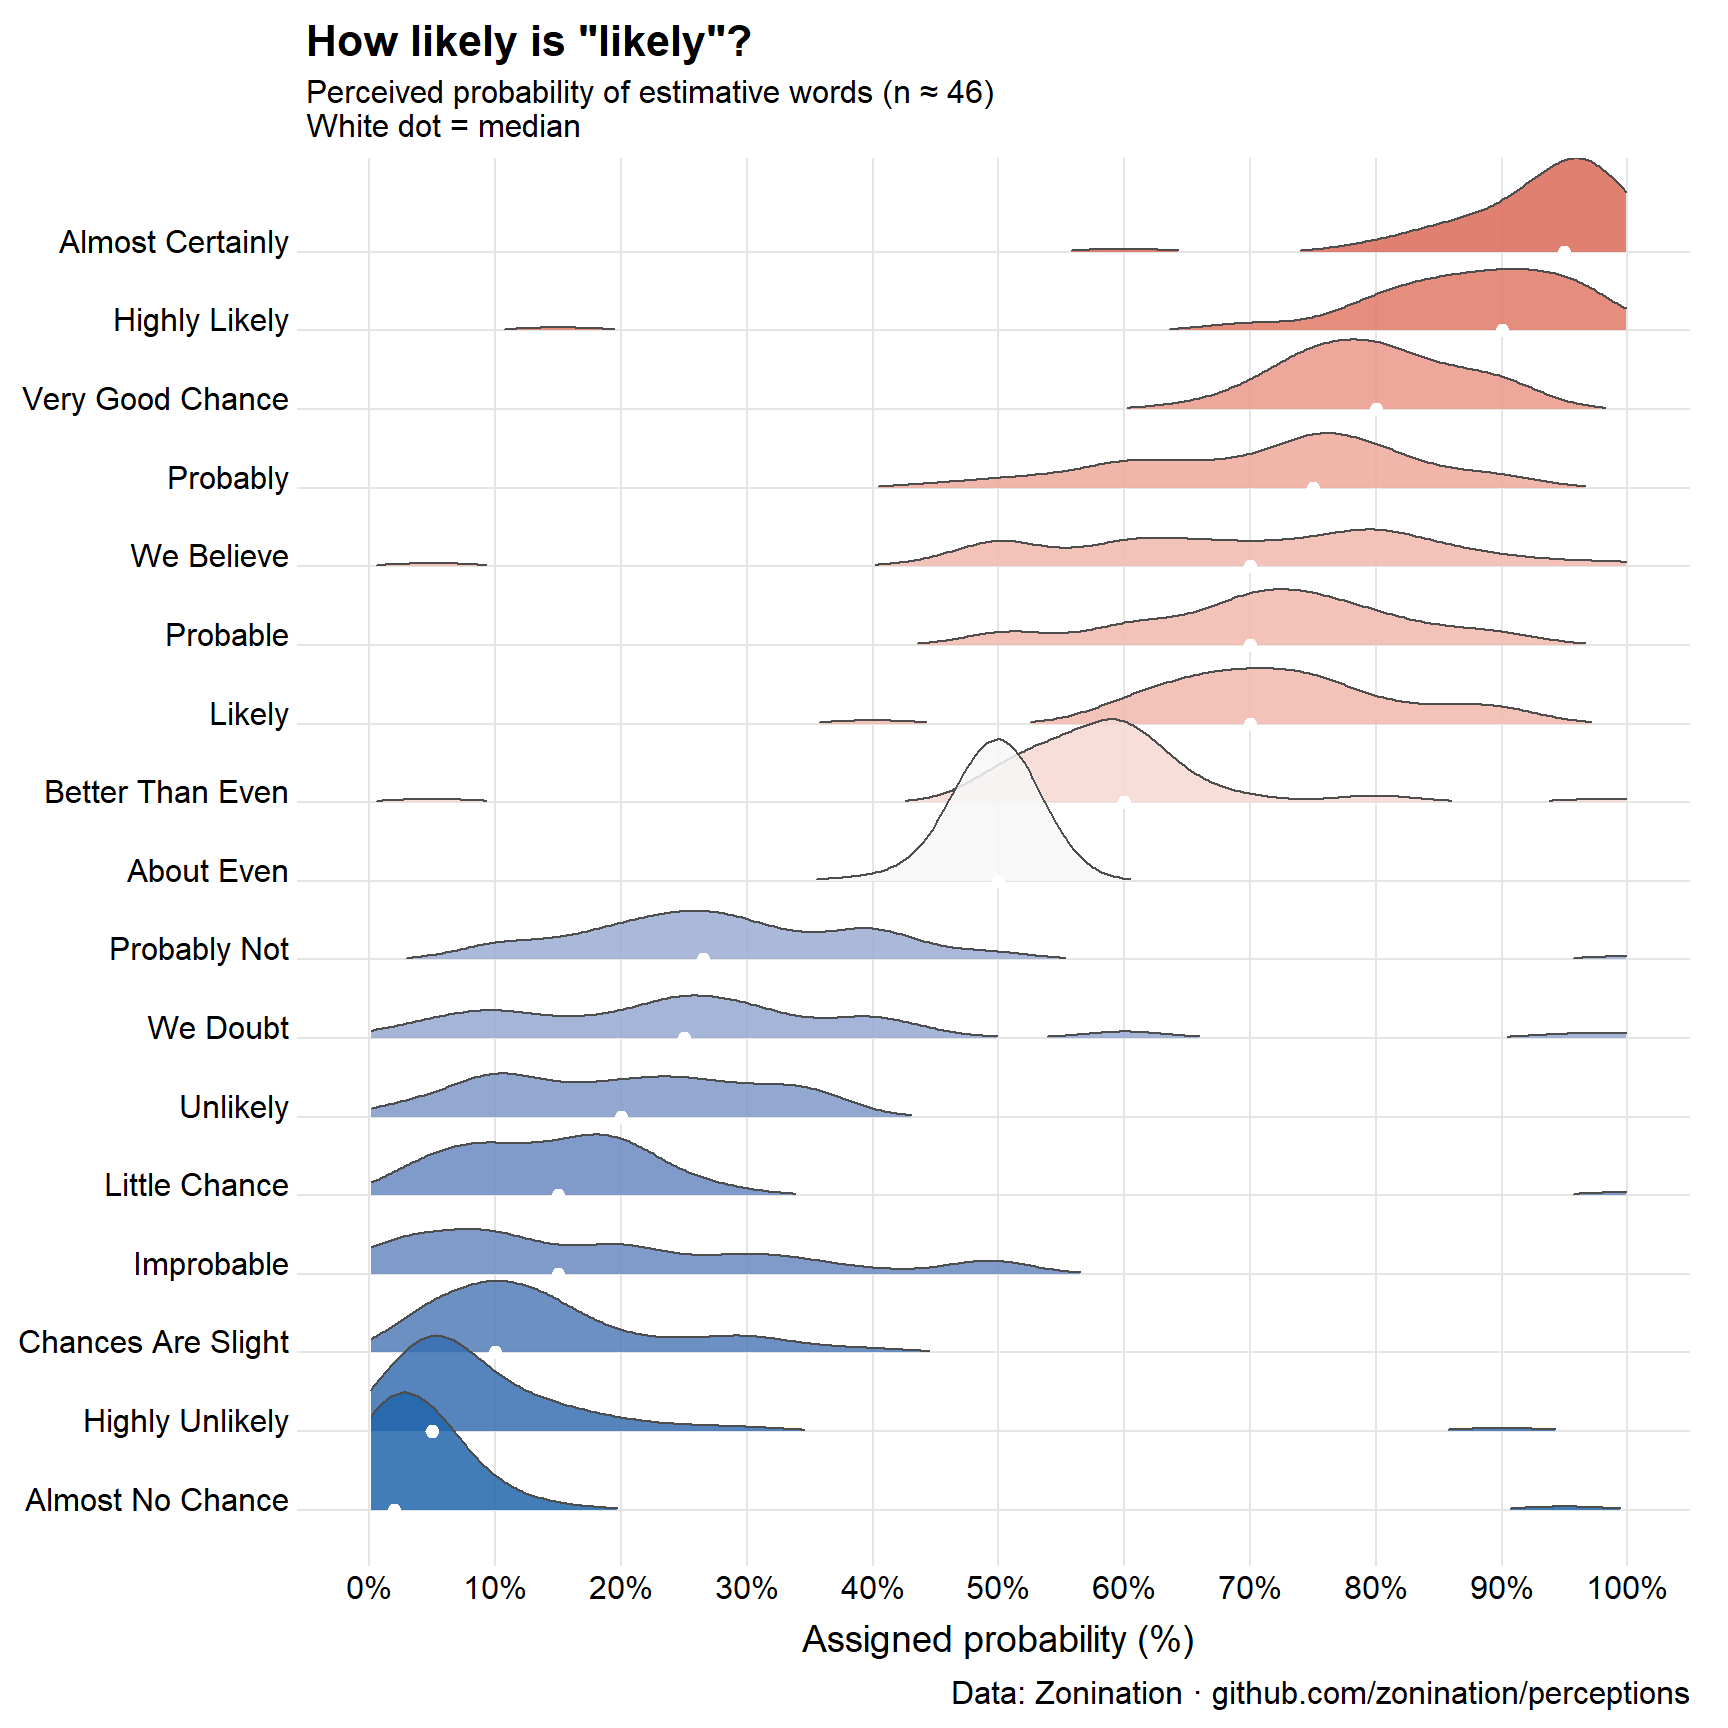
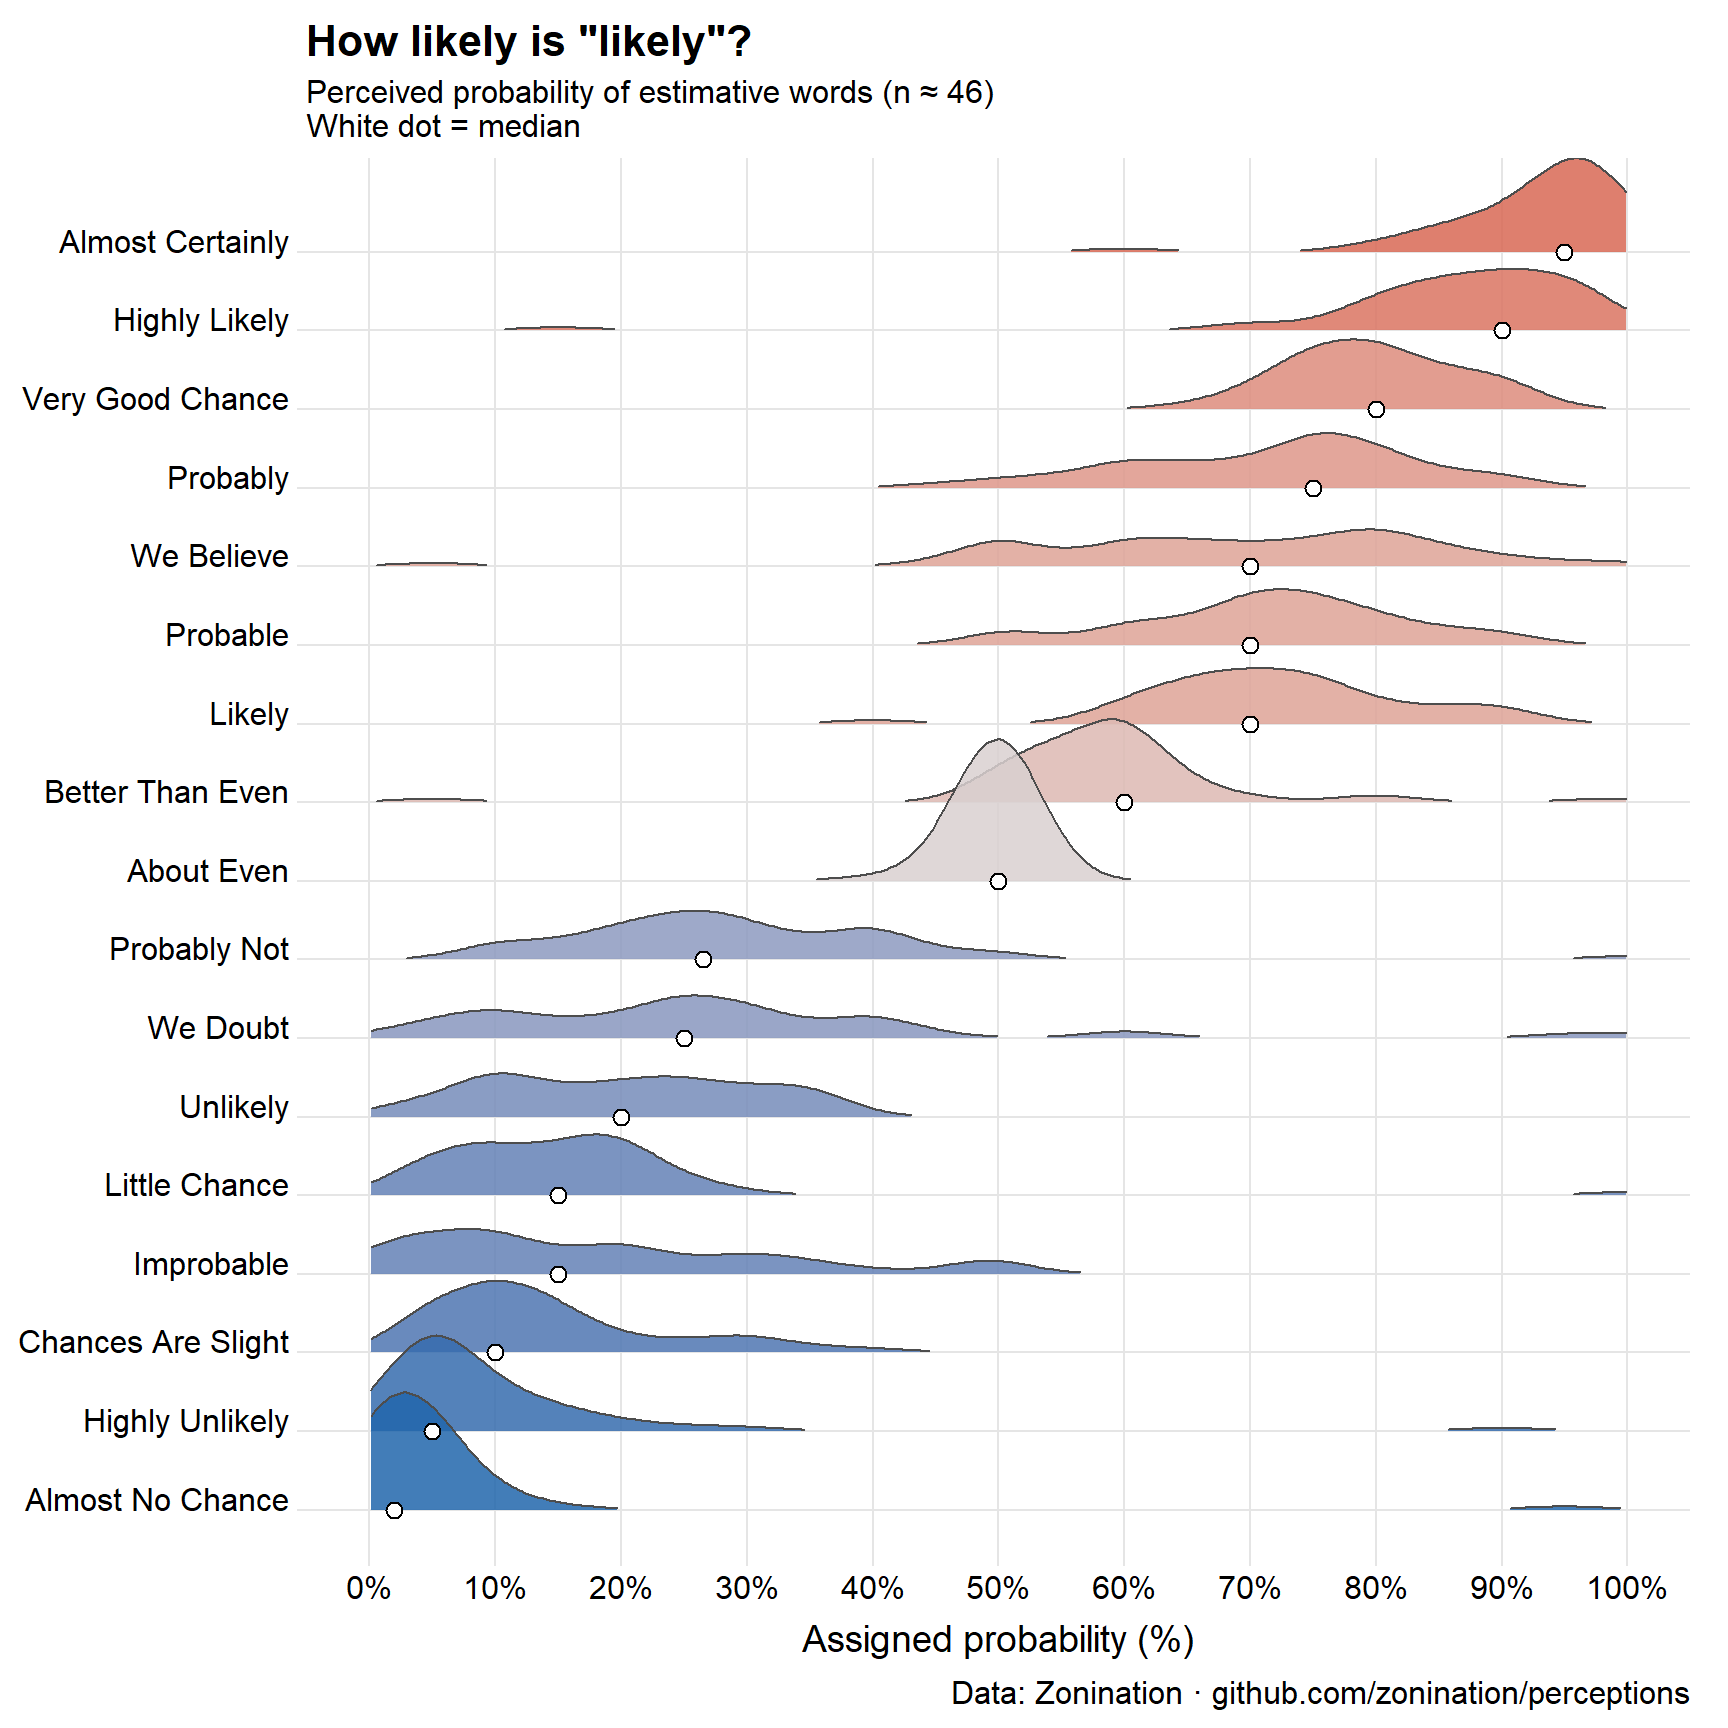
tweak probwords fig

Changed region(s): [[0.5, 0.4062, 0.7188, 0.5312]]

diff --git a/blog/drafts/BeachScience/BS-HowWarm.html b/blog/drafts/BeachScience/BS-HowWarm.html
@@ -158,9 +158,9 @@ background-size: cover;
 
 
 <!-- Image from: "C:\R\Projects\friendly.github.io\blog\drafts\BeachScience\images\thermometer-readouts.webp" -->
-<p>Standing at the water’s edge this morning, I described the Mediterranean air to my companion as “brisk”. She called it “refreshing”. A man walking past, apparently from somewhere much colder, called it “mild”. We were all describing the same air at the same moment.</p>
-<p>We all go for a plunge in the clear blue waters. Comparing our impressions, I call it “chilly”; my companion says, “cool, and refreshing”; the stranger calls it “temperate”.</p>
-<p>This is not a failure of communication. It is a BS research question.</p>
+<p>Standing at the water’s edge this morning, I described the Mediterranean air to my companion as “brisk”. She called it “refreshing”. A man walking past, perhaps from somewhere much colder, called it “mild”. We were all describing the same air at the same moment.</p>
+<p>We all go for a plunge in the clear blue waters. Comparing our impressions, I call it “chilly”; my companion says, “cool, and refreshing”; the stranger calls it “temperate”. Again: same water but different words to describe what we feel.</p>
+<p>This is not a failure of communication, or something you can just dismiss as “individual differences.” It is a BS research question.</p>
 <section id="the-meterologists-view" class="level2">
 <h2 class="anchored" data-anchor-id="the-meterologists-view">The Meterologist’s View</h2>
 <p>A meteorologist, coming from physical science, explains <a href="https://www.popsci.com/environment/what-is-feels-like-temperature/">What is ‘feels-like’ temperature?</a> in terms of <a href="https://en.wikipedia.org/wiki/Wind_chill">wind-chill</a>. This idea even gets a measure, the <strong>wind-chill factor</strong> (or “feels like” temperature). It is defined in words as:</p>
@@ -168,12 +168,12 @@ background-size: cover;
 <p>the apparent temperature felt on exposed skin caused by the combination of air temperature and wind speed. Wind strips away your body’s natural insulating layer of warm air, making the temperature feel significantly colder than the thermometer reads.</p>
 </blockquote>
 <p><img src="images/windchill3.png" class="img-fluid" style="float:right; margin-left:1.5em; margin-bottom:1em; width:45%"></p>
-<p>But that’s quite a physical mouthful. There are formulas for this, but you can understand the physics more easily from a <a href="https://en.wikipedia.org/wiki/Heat_map"><strong>heatmap</strong></a> visualization that simply uses background color for the “feels-like” value. Rick Wiklin, a long time friend, explains how to create <a href="https://blogs.sas.com/content/iml/2021/02/24/wind-chill-chart.html">The wind chill chart</a>, giving the figure at the right.</p>
+<p>But that’s quite a physical mouthful. There are formulas for this, but you can understand the physics more easily from a <a href="https://en.wikipedia.org/wiki/Heat_map"><strong>heatmap</strong></a> visualization that simply uses background color for the “feels-like” value. Rick Wiklin, a long time friend, explains how to create <a href="https://blogs.sas.com/content/iml/2021/02/24/wind-chill-chart.html">The wind chill chart</a> using SAS, giving the figure at the right.</p>
 <hr>
 </section>
 <section id="what-about-the-words" class="level2">
 <h2 class="anchored" data-anchor-id="what-about-the-words">What About the Words?</h2>
-<p>But even if you understand the physics, how can you understand the <strong>words</strong> you use to describe your feeling of warmth when you are sitting on the beach, or decide to go for a swim?</p>
+<p>But even if you understand the physics, how can you understand the <strong>words</strong> you use to describe your feeling of warmth when you are sitting on the beach, or decide to go for a swim? Perception goes beyond the physics. And there is also something interesting about the way we use discrete, qualitative words to describe what is a quantitative phenomenon.</p>
 </section>
 <section id="the-probability-analogy" class="level2">
 <h2 class="anchored" data-anchor-id="the-probability-analogy">The Probability Analogy</h2>
@@ -189,19 +189,20 @@ background-size: cover;
 <span id="cb1-3"><a href="#cb1-3" aria-hidden="true" tabindex="-1"></a>                      <span class="at">colour =</span> <span class="st">"grey30"</span>, <span class="at">linewidth =</span> <span class="fl">0.4</span>, <span class="at">alpha =</span> <span class="fl">0.85</span>) <span class="sc">+</span></span>
 <span id="cb1-4"><a href="#cb1-4" aria-hidden="true" tabindex="-1"></a>  <span class="fu">geom_point</span>(<span class="at">data =</span> term_summary,</span>
 <span id="cb1-5"><a href="#cb1-5" aria-hidden="true" tabindex="-1"></a>             <span class="fu">aes</span>(<span class="at">x =</span> med, <span class="at">y =</span> term),</span>
-<span id="cb1-6"><a href="#cb1-6" aria-hidden="true" tabindex="-1"></a>             <span class="at">colour =</span> <span class="st">"white"</span>, <span class="at">size =</span> <span class="fl">1.8</span>, <span class="at">inherit.aes =</span> <span class="cn">FALSE</span>) <span class="sc">+</span></span>
-<span id="cb1-7"><a href="#cb1-7" aria-hidden="true" tabindex="-1"></a>  <span class="fu">scale_fill_gradient2</span>(<span class="at">low =</span> <span class="st">"#2166ac"</span>, <span class="at">mid =</span> <span class="st">"#f7f7f7"</span>, <span class="at">high =</span> <span class="st">"#d6604d"</span>,</span>
-<span id="cb1-8"><a href="#cb1-8" aria-hidden="true" tabindex="-1"></a>                       <span class="at">midpoint =</span> <span class="dv">50</span>, <span class="at">name =</span> <span class="st">"Median</span><span class="sc">\n</span><span class="st">(%)"</span>) <span class="sc">+</span></span>
-<span id="cb1-9"><a href="#cb1-9" aria-hidden="true" tabindex="-1"></a>  <span class="fu">scale_x_continuous</span>(<span class="at">breaks =</span> <span class="fu">seq</span>(<span class="dv">0</span>, <span class="dv">100</span>, <span class="dv">10</span>),</span>
-<span id="cb1-10"><a href="#cb1-10" aria-hidden="true" tabindex="-1"></a>                     <span class="at">labels =</span> <span class="cf">function</span>(x) <span class="fu">paste0</span>(x, <span class="st">"%"</span>),</span>
-<span id="cb1-11"><a href="#cb1-11" aria-hidden="true" tabindex="-1"></a>                     <span class="at">limits =</span> <span class="fu">c</span>(<span class="dv">0</span>, <span class="dv">100</span>)) <span class="sc">+</span></span>
-<span id="cb1-12"><a href="#cb1-12" aria-hidden="true" tabindex="-1"></a>  <span class="fu">labs</span>(<span class="at">title =</span> <span class="st">'How likely is "likely"?'</span>,</span>
-<span id="cb1-13"><a href="#cb1-13" aria-hidden="true" tabindex="-1"></a>       <span class="at">subtitle =</span> <span class="st">"Perceived probability of estimative words (n ≈ 46)</span><span class="sc">\n</span><span class="st">White dot = median"</span>,</span>
-<span id="cb1-14"><a href="#cb1-14" aria-hidden="true" tabindex="-1"></a>       <span class="at">x =</span> <span class="st">"Assigned probability (%)"</span>, <span class="at">y =</span> <span class="cn">NULL</span>,</span>
-<span id="cb1-15"><a href="#cb1-15" aria-hidden="true" tabindex="-1"></a>       <span class="at">caption =</span> <span class="st">"Data: Zonination · github.com/zonination/perceptions"</span>) <span class="sc">+</span></span>
-<span id="cb1-16"><a href="#cb1-16" aria-hidden="true" tabindex="-1"></a>  <span class="fu">theme_ridges</span>(<span class="at">grid =</span> <span class="cn">TRUE</span>, <span class="at">center_axis_labels =</span> <span class="cn">TRUE</span>) <span class="sc">+</span></span>
-<span id="cb1-17"><a href="#cb1-17" aria-hidden="true" tabindex="-1"></a>  <span class="fu">theme</span>(<span class="at">plot.title =</span> <span class="fu">element_text</span>(<span class="at">face =</span> <span class="st">"bold"</span>, <span class="at">size =</span> <span class="dv">16</span>),</span>
-<span id="cb1-18"><a href="#cb1-18" aria-hidden="true" tabindex="-1"></a>        <span class="at">legend.position =</span> <span class="st">"none"</span>)</span></code></pre></div><button title="Copy to Clipboard" class="code-copy-button"><i class="bi"></i></button></div>
+<span id="cb1-6"><a href="#cb1-6" aria-hidden="true" tabindex="-1"></a>             <span class="at">shape =</span> <span class="dv">21</span>, <span class="at">colour =</span> <span class="st">"black"</span>, <span class="at">fill =</span> <span class="st">"white"</span>,</span>
+<span id="cb1-7"><a href="#cb1-7" aria-hidden="true" tabindex="-1"></a>             <span class="at">size =</span> <span class="fl">2.6</span>, <span class="at">stroke =</span> <span class="fl">0.6</span>, <span class="at">inherit.aes =</span> <span class="cn">FALSE</span>) <span class="sc">+</span></span>
+<span id="cb1-8"><a href="#cb1-8" aria-hidden="true" tabindex="-1"></a>  <span class="fu">scale_fill_gradient2</span>(<span class="at">low =</span> <span class="st">"#2166ac"</span>, <span class="at">mid =</span> <span class="st">"#d9d0d0"</span>, <span class="at">high =</span> <span class="st">"#d6604d"</span>,</span>
+<span id="cb1-9"><a href="#cb1-9" aria-hidden="true" tabindex="-1"></a>                       <span class="at">midpoint =</span> <span class="dv">50</span>, <span class="at">name =</span> <span class="st">"Median</span><span class="sc">\n</span><span class="st">(%)"</span>) <span class="sc">+</span></span>
+<span id="cb1-10"><a href="#cb1-10" aria-hidden="true" tabindex="-1"></a>  <span class="fu">scale_x_continuous</span>(<span class="at">breaks =</span> <span class="fu">seq</span>(<span class="dv">0</span>, <span class="dv">100</span>, <span class="dv">10</span>),</span>
+<span id="cb1-11"><a href="#cb1-11" aria-hidden="true" tabindex="-1"></a>                     <span class="at">labels =</span> <span class="cf">function</span>(x) <span class="fu">paste0</span>(x, <span class="st">"%"</span>),</span>
+<span id="cb1-12"><a href="#cb1-12" aria-hidden="true" tabindex="-1"></a>                     <span class="at">limits =</span> <span class="fu">c</span>(<span class="dv">0</span>, <span class="dv">100</span>)) <span class="sc">+</span></span>
+<span id="cb1-13"><a href="#cb1-13" aria-hidden="true" tabindex="-1"></a>  <span class="fu">labs</span>(<span class="at">title =</span> <span class="st">'How likely is "likely"?'</span>,</span>
+<span id="cb1-14"><a href="#cb1-14" aria-hidden="true" tabindex="-1"></a>       <span class="at">subtitle =</span> <span class="st">"Perceived probability of estimative words (n ≈ 46)</span><span class="sc">\n</span><span class="st">White dot = median"</span>,</span>
+<span id="cb1-15"><a href="#cb1-15" aria-hidden="true" tabindex="-1"></a>       <span class="at">x =</span> <span class="st">"Assigned probability (%)"</span>, <span class="at">y =</span> <span class="cn">NULL</span>,</span>
+<span id="cb1-16"><a href="#cb1-16" aria-hidden="true" tabindex="-1"></a>       <span class="at">caption =</span> <span class="st">"Data: Zonination · github.com/zonination/perceptions"</span>) <span class="sc">+</span></span>
+<span id="cb1-17"><a href="#cb1-17" aria-hidden="true" tabindex="-1"></a>  <span class="fu">theme_ridges</span>(<span class="at">grid =</span> <span class="cn">TRUE</span>, <span class="at">center_axis_labels =</span> <span class="cn">TRUE</span>) <span class="sc">+</span></span>
+<span id="cb1-18"><a href="#cb1-18" aria-hidden="true" tabindex="-1"></a>  <span class="fu">theme</span>(<span class="at">plot.title =</span> <span class="fu">element_text</span>(<span class="at">face =</span> <span class="st">"bold"</span>, <span class="at">size =</span> <span class="dv">16</span>),</span>
+<span id="cb1-19"><a href="#cb1-19" aria-hidden="true" tabindex="-1"></a>        <span class="at">legend.position =</span> <span class="st">"none"</span>)</span></code></pre></div><button title="Copy to Clipboard" class="code-copy-button"><i class="bi"></i></button></div>
 </details>
 <div class="cell-output-display">
 <div id="fig-probwords" class="quarto-float quarto-figure quarto-figure-center anchored">